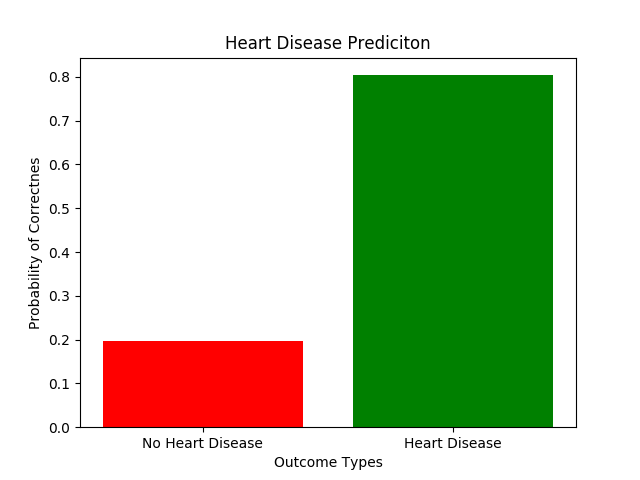
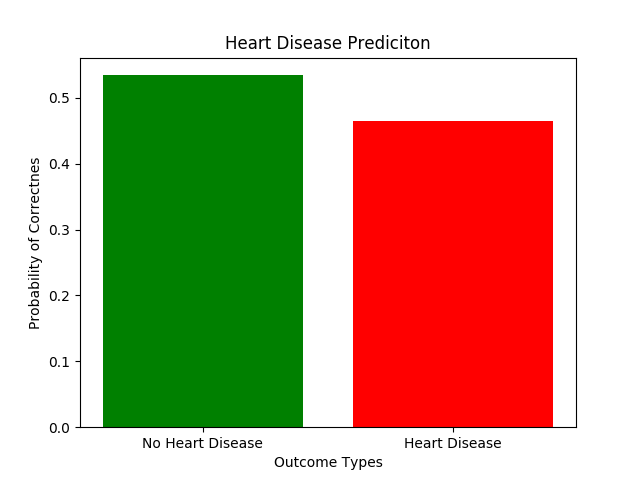
prediction graphs now showing

diff --git a/Project/Submission/Templates/predictor.html b/Project/Submission/Templates/predictor.html
@@ -1,14 +1,14 @@
 {% extends 'base.html' %}
 
-{% block title %}{something} Predictor{% endblock %}
+{% block title %}Heart Disease Predictor{% endblock %}
 
 {% block content %}
 <div class="container-fluid">
   <div class="row">
-    <h2>Predicting {insert track here}</h2>
+    <h2>Predicting Heart Disease</h2>
   </div>
   <div class="row">
-    <p class="lead">Complete the form below to predict {insert track here}.</p>
+    <p class="lead">Complete the form below to predict if you have Heart Disease.</p>
   </div>
   <div class="row-fluid">
     <fieldset class="scheduler-border">
@@ -25,8 +25,8 @@
               <label for="sex">Sex</label>
               <select id="sex" class="form-control" name="sex" placeholder="Sex" required>
                 <option value="" selected disabled>Please select...</option>
-                <option>Female</option>
-                <option>Male</option>
+                <option value=0>Female</option>
+                <option value=1>Male</option>
               </select>
           </div>    
         </div>
@@ -37,10 +37,10 @@
             <label for="chest_pain_type">Chest Pain Type</label>
             <select id="chest_pain_type" class="form-control" name="chest_pain_type" placeholder="Chest Pain Type" required>
               <option value="" selected disabled>Please select...</option>
-              <option>Typical Angina</option>
-              <option>Atypical Angina</option>
-              <option>Non-Anginal</option>
-              <option>Asymptomatic</option>
+              <option value=1>Typical Angina</option>
+              <option value=2>Atypical Angina</option>
+              <option value=3>Non-Anginal</option>
+              <option value=4>Asymptomatic</option>
             </select>
           </div>
           <div class="form-group col-6">
@@ -59,8 +59,8 @@
               <label for="fasting_bs">Is Fasting Blood Sugar Over 120 mg/dl</label>
               <select id="fasting_bs" name="fasting_bs" class="form-control" placeholder="Is Fasting Blood Sugar Over 120 mg/dl" required>
                 <option value="" selected disabled>Please select...</option>
-                <option>Yes</option>
-                <option>No</option>
+                <option value=1>Yes</option>
+                <option value=0>No</option>
               </select>
             </div>
         </div>
@@ -71,10 +71,9 @@
             <label for="resting_ecg">Resting ECG Results</label>
             <select id="resting_ecg" name="resting_ecg" class="form-control" placeholder="Resting ECG Results" required>
               <option value="" selected disabled>Please select...</option>
-              <option>Normal</option>
-              <option>Having ST-T wave abnormality</option>
-              <option>Showing Probable or Definite Left</option>
-              <option>Ventricular Hypertrophy by Estes’ Criteria)</option>
+              <option value=0>Normal</option>
+              <option value=1>Having ST-T wave abnormality</option>
+              <option value=2>Showing Probable or Definite Left Ventricular Hypertrophy by Estes’ Criteria</option>
             </select>
           </div>
           <div class="form-group col-6">
@@ -89,8 +88,8 @@
                 <label for="ei_angina">Do you have exercised induced angina?</label>
                 <select id="ei_angina" name="ei_angina" class="form-control" placeholder="Do you have exercised induced angina?" required>
                   <option value="" selected disabled>Please select...</option>
-                  <option>Yes</option>
-                  <option>No</option>
+                  <option value=1>Yes</option>
+                  <option value=0>No</option>
                 </select>
               </div>
           <div class="form-group col-6">
@@ -105,19 +104,19 @@
               <label for="peak_est">What is the slope of the peak exercise ST segment?</label>
               <select id="peak_est" name="peak_est" class="form-control" placeholder="What is the slope of the peak exercise ST segment?" required>
                 <option value="" selected disabled>Please select...</option>
-                <option>Upsloping</option>
-                <option>Flat</option>
-                <option>Downsloping</option>
+                <option value=1>Upsloping</option>
+                <option value=2>Flat</option>
+                <option value=3>Downsloping</option>
               </select>
             </div>
           <div class="form-group col-6">
             <label for="colours">Number of Major Vessels Coloured by Flourosopy</label>
             <select id="colours" name="colours" class="form-control" placeholder="Number of Major Vessels Coloured by Flourosopy" required>
               <option value="" selected disabled>Please select...</option>
-              <option>0</option>
-              <option>1</option>
-              <option>2</option>
-              <option>3</option>
+              <option value=0>0</option>
+              <option value=1>1</option>
+              <option value=2>2</option>
+              <option value=3>3</option>
             </select>
           </div>
         </div>
@@ -128,9 +127,9 @@
               <label for="thal">Thalassemia</label>
               <select id="thal" name="thal" class="form-control" placeholder="Thalassemia" required>
                 <option value="" selected disabled>Please select...</option>
-                <option>3 - Normal</option>
-                <option>6 - Fixed Defect</option>
-                <option>7 - Reversible Defect</option>
+                <option value=3>3 - Normal</option>
+                <option value=6>6 - Fixed Defect</option>
+                <option value=7>7 - Reversible Defect</option>
               </select>
           </div>
         </div>

diff --git a/Project/Submission/predictor.py b/Project/Submission/predictor.py
@@ -146,6 +146,7 @@ class Predictor():
         plt.xlabel("Epoch Count")
         plt.ylabel("Model Accuracy (%)")
         plt.savefig('static/images/neuralNetworkAccuracy.png')
+        plt.close()
 
         torch.save(self.dataModel, 'neuralNetwork.pt')
         self.dataModel.eval()
@@ -182,7 +183,7 @@ class Predictor():
             colors = ['red', 'green']
         
         #Create a new figure
-        plt.figure()
+        fig = plt.figure()
 
         #Plot all the data as a bar chart
         plt.bar(['No Heart Disease', 'Heart Disease'], diseaseProbabilities, color = colors)
@@ -191,6 +192,7 @@ class Predictor():
         plt.ylabel('Probability of Correctnes')
         #Save the figure as a file to be displayed by webpage
         plt.savefig('static/images/diseaseProbability.png')
+        plt.close(fig)
 
         
         return (predictedValue, diseaseProbabilities)

diff --git a/Project/Submission/server_helper.py b/Project/Submission/server_helper.py
@@ -66,11 +66,10 @@ db = database_startup()
 
 def result_converter(dict_result):
     result = []
-    for val in dict_result:
-        print(dict_result[val])
-        # Aiden, can you convert to the values you expect here
-        # then append to result and it should then take care of it
-        # data should be already validated
+    allLabels = ['age', 'sex', 'chest_pain_type', 'resting_blood_pressure', 'serum_cholestoral', 'fasting_bs', 'resting_ecg','max_heart', 'ei_angina', 'oldpeak', 'peak_est', 'colours', 'thal']
+
+    for label in allLabels:
+        result.append(float(dict_result[label]))
     return result
 
 def predicted(dict_result):

diff --git a/Project/predictor.py b/Project/predictor.py
@@ -192,7 +192,7 @@ class Predictor():
         plt.xlabel('Outcome Types')
         plt.ylabel('Probability of Correctnes')
         #Save the figure as a file to be displayed by webpage
-        plt.savefig('diseaseProbability.png')
+        #plt.savefig('diseaseProbability.png')
 
         
         return (predictedValue, diseaseProbabilities)
